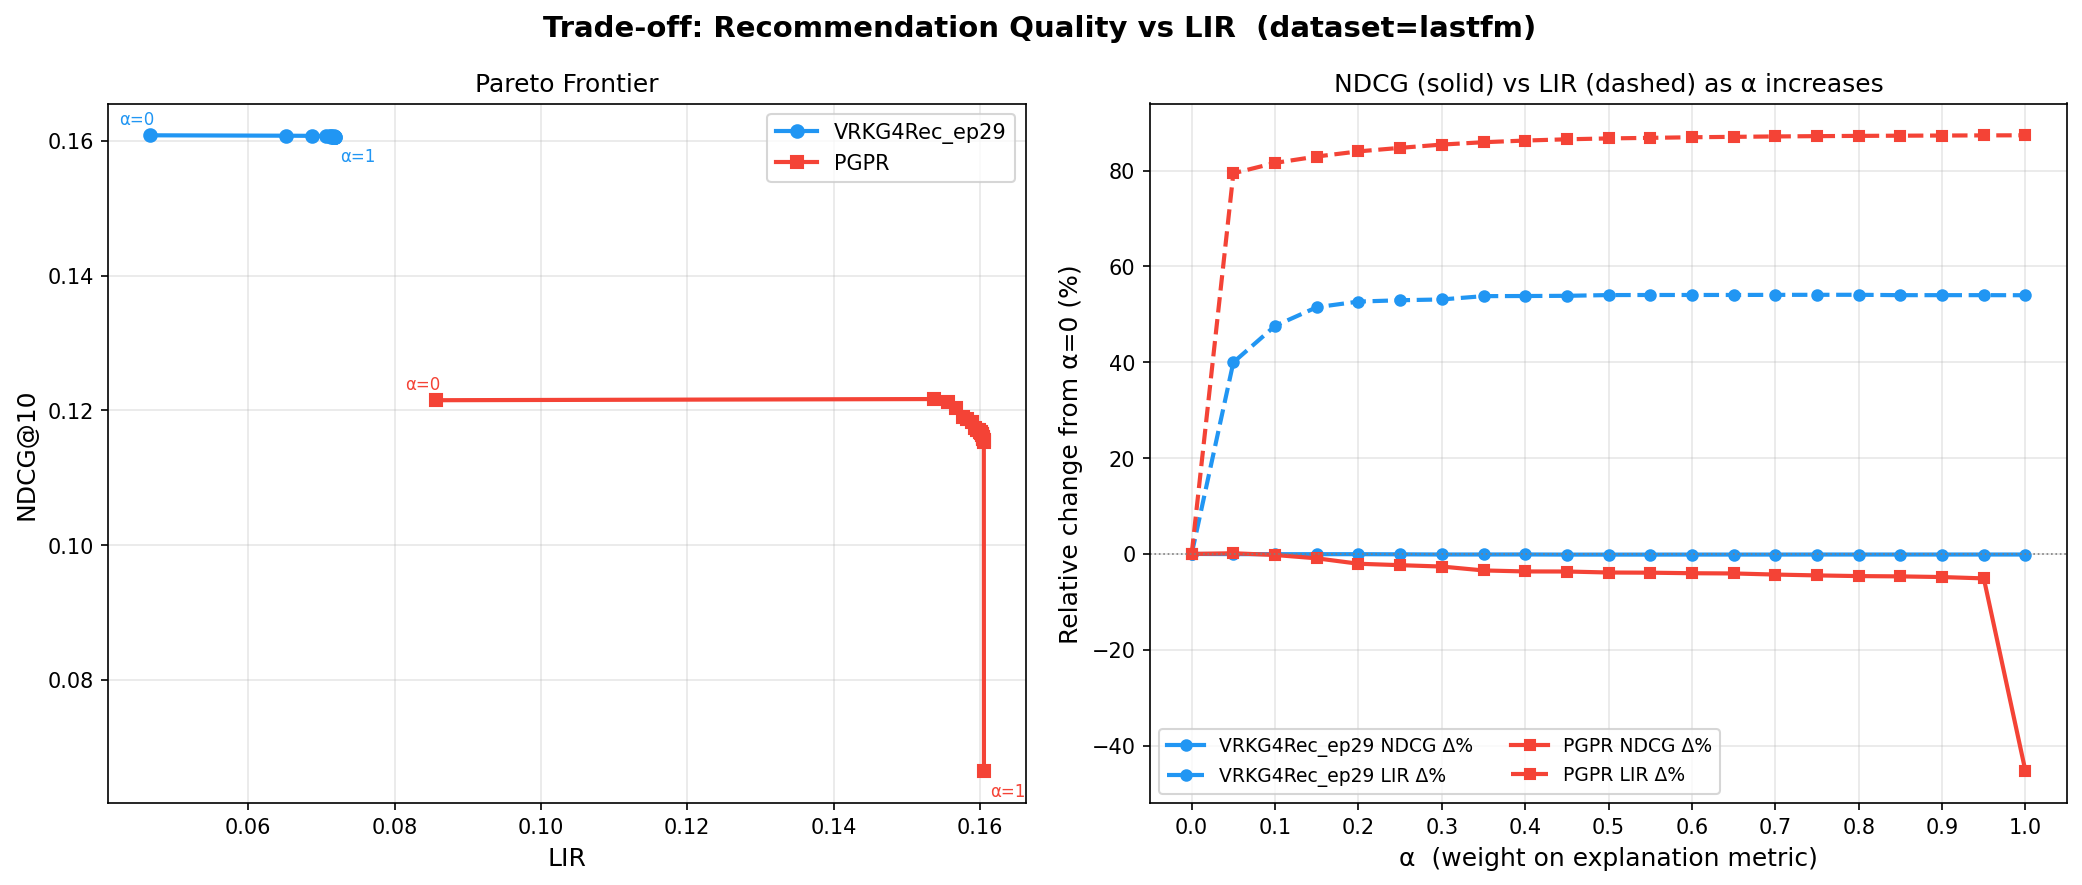
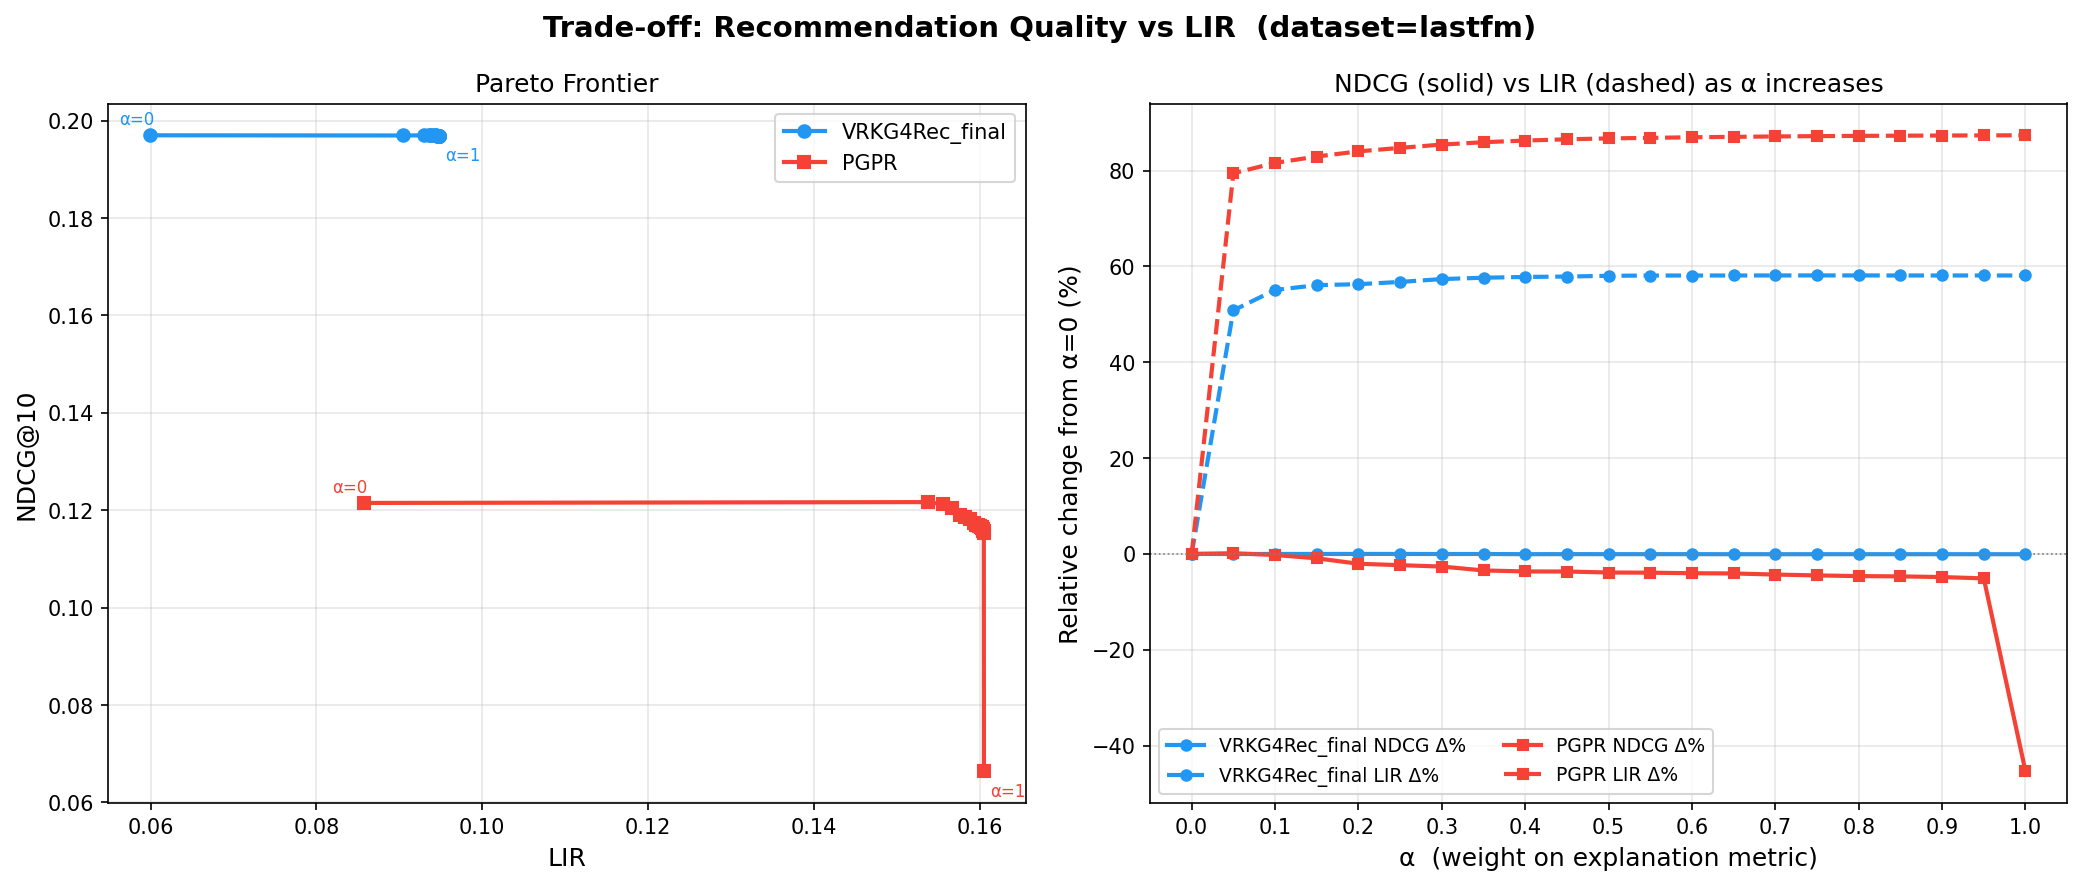
Final VRKG4Rec rerun (best ckpt) + refreshed tradeoff figures
- Reran VRKG4Rec adapter with final training checkpoint (early-stop run completed).
- Updated lastfm agent_topk=10-12-1 baseline metrics: NDCG=0.197, HR=0.302, LIR=0.060, SEP=0.876, ETD=0.293.
- Regenerated Pareto tradeoff figures/CSVs (LIR, ETD, SEP) against PGPR.
- Include adapter robustness/progress fix: xuid lookup before filtering + flush progress every 100 users.
- Refreshed PGPR baseline log format for consistency.

diff --git a/adapters/vrkg4rec_adapter.py b/adapters/vrkg4rec_adapter.py
@@ -488,8 +488,9 @@ def main():
     raw_results = {}      # vrkg_uid → [(pid, score, path_nodes), ...]
 
     for i, vrkg_uid in enumerate(test_vrkg_uids):
-        if i % 1000 == 0:
-            print(f"  [{i}/{len(test_vrkg_uids)}] users processed ...")
+        if i % 100 == 0:
+            print(f"  [{i}/{len(test_vrkg_uids)}] users processed ...", flush=True)
+        xuid = vrkg_to_xuid.get(vrkg_uid)
         if xuid is None:
             continue
 